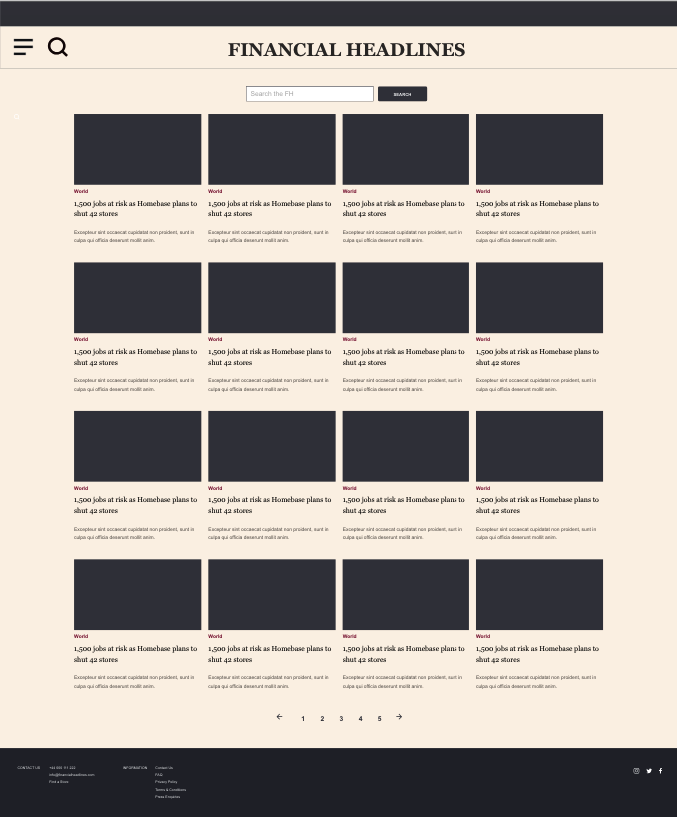
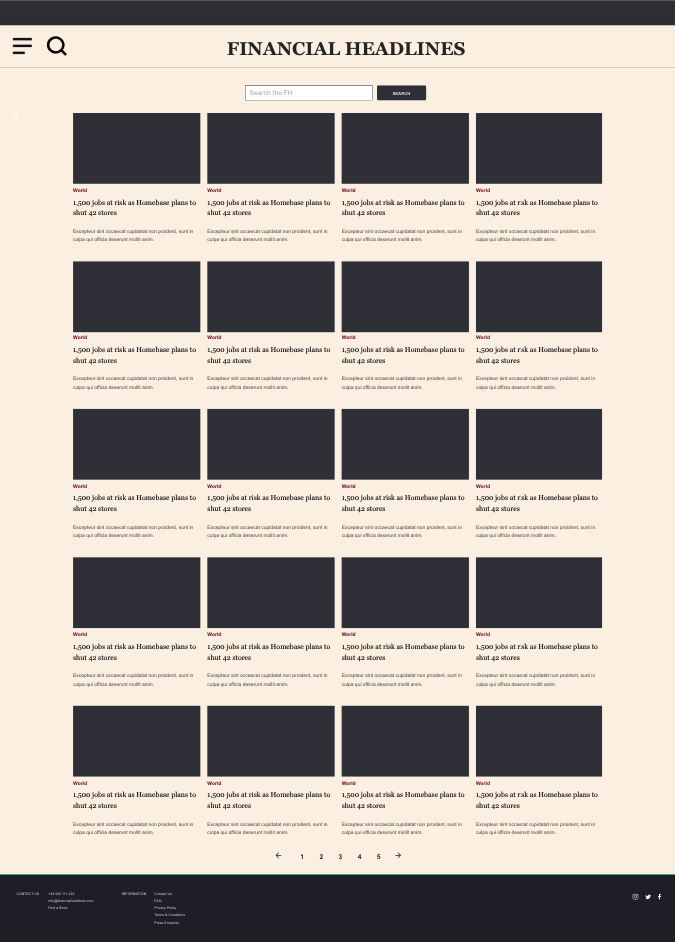
Fix wire frame mocks to display correct pagination
* Display 20 articles per page

diff --git a/README.md b/README.md
@@ -49,7 +49,7 @@ Web (full screen) optimised:
 ![web](./readme_images/Financial_Headlines_Web_Mock_Up.png)
 
 Mobile optimised:
-[Interactive version](https://xd.adobe.com/view/0ca788f3-1297-493d-68fa-76e119915efd-7a96/screen/6f57f272-4de0-4f7d-adfd-19d85269e268/Home-Search)
+[Interactive version](https://xd.adobe.com/view/0ca788f3-1297-493d-68fa-76e119915efd-7a96/)
 
 ### Diagram:
 ![diagram]()
